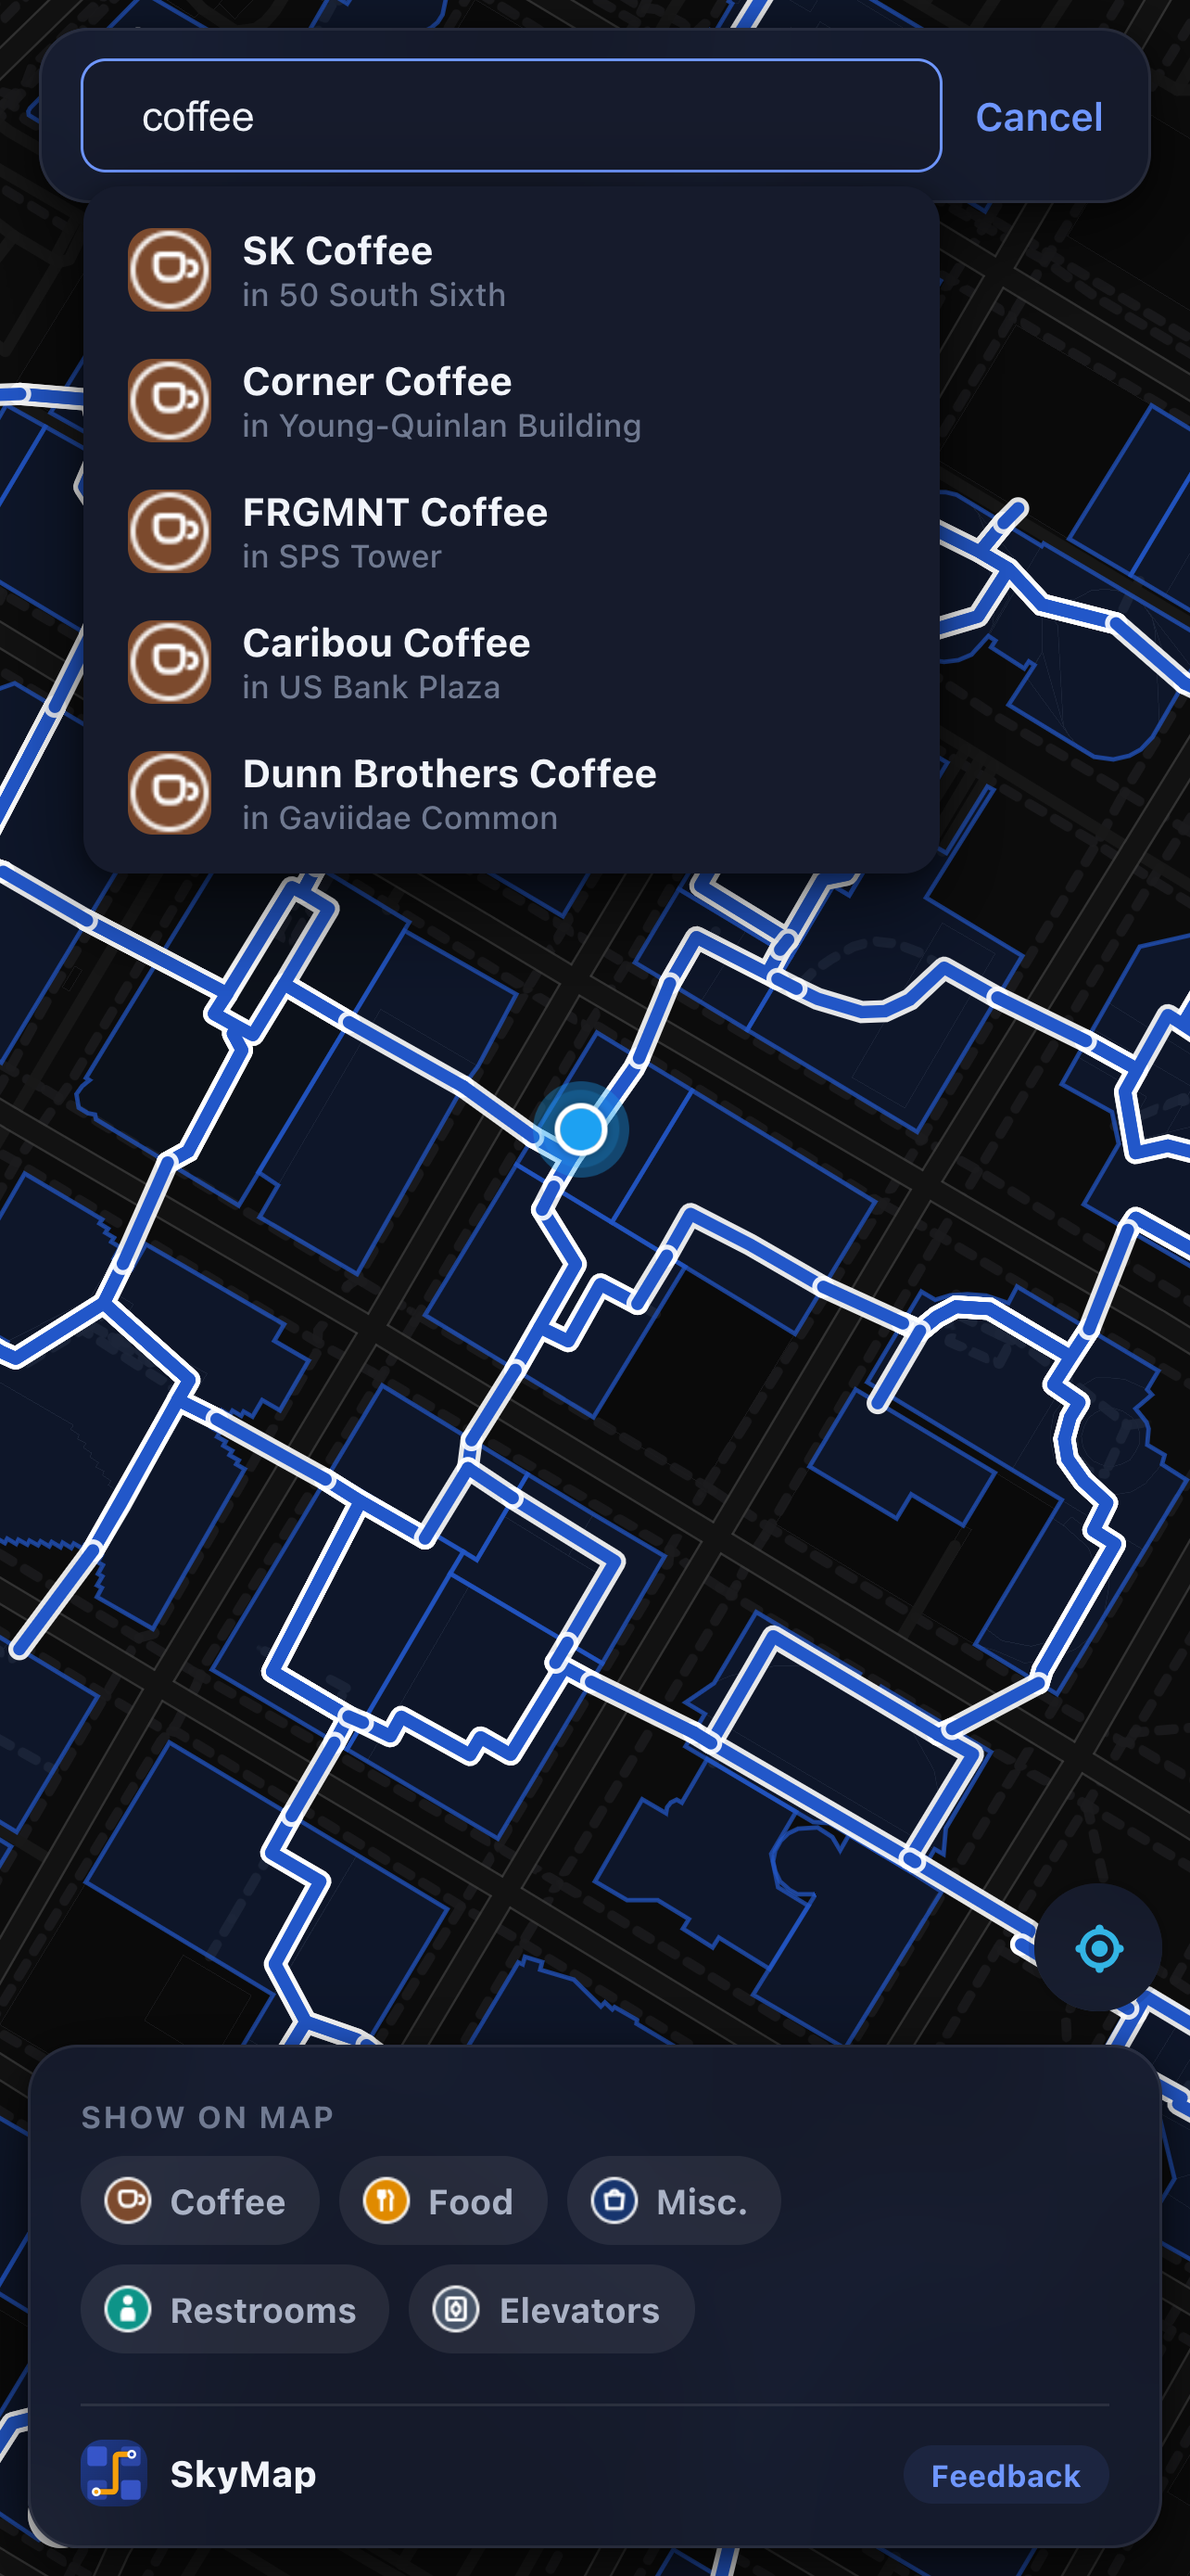
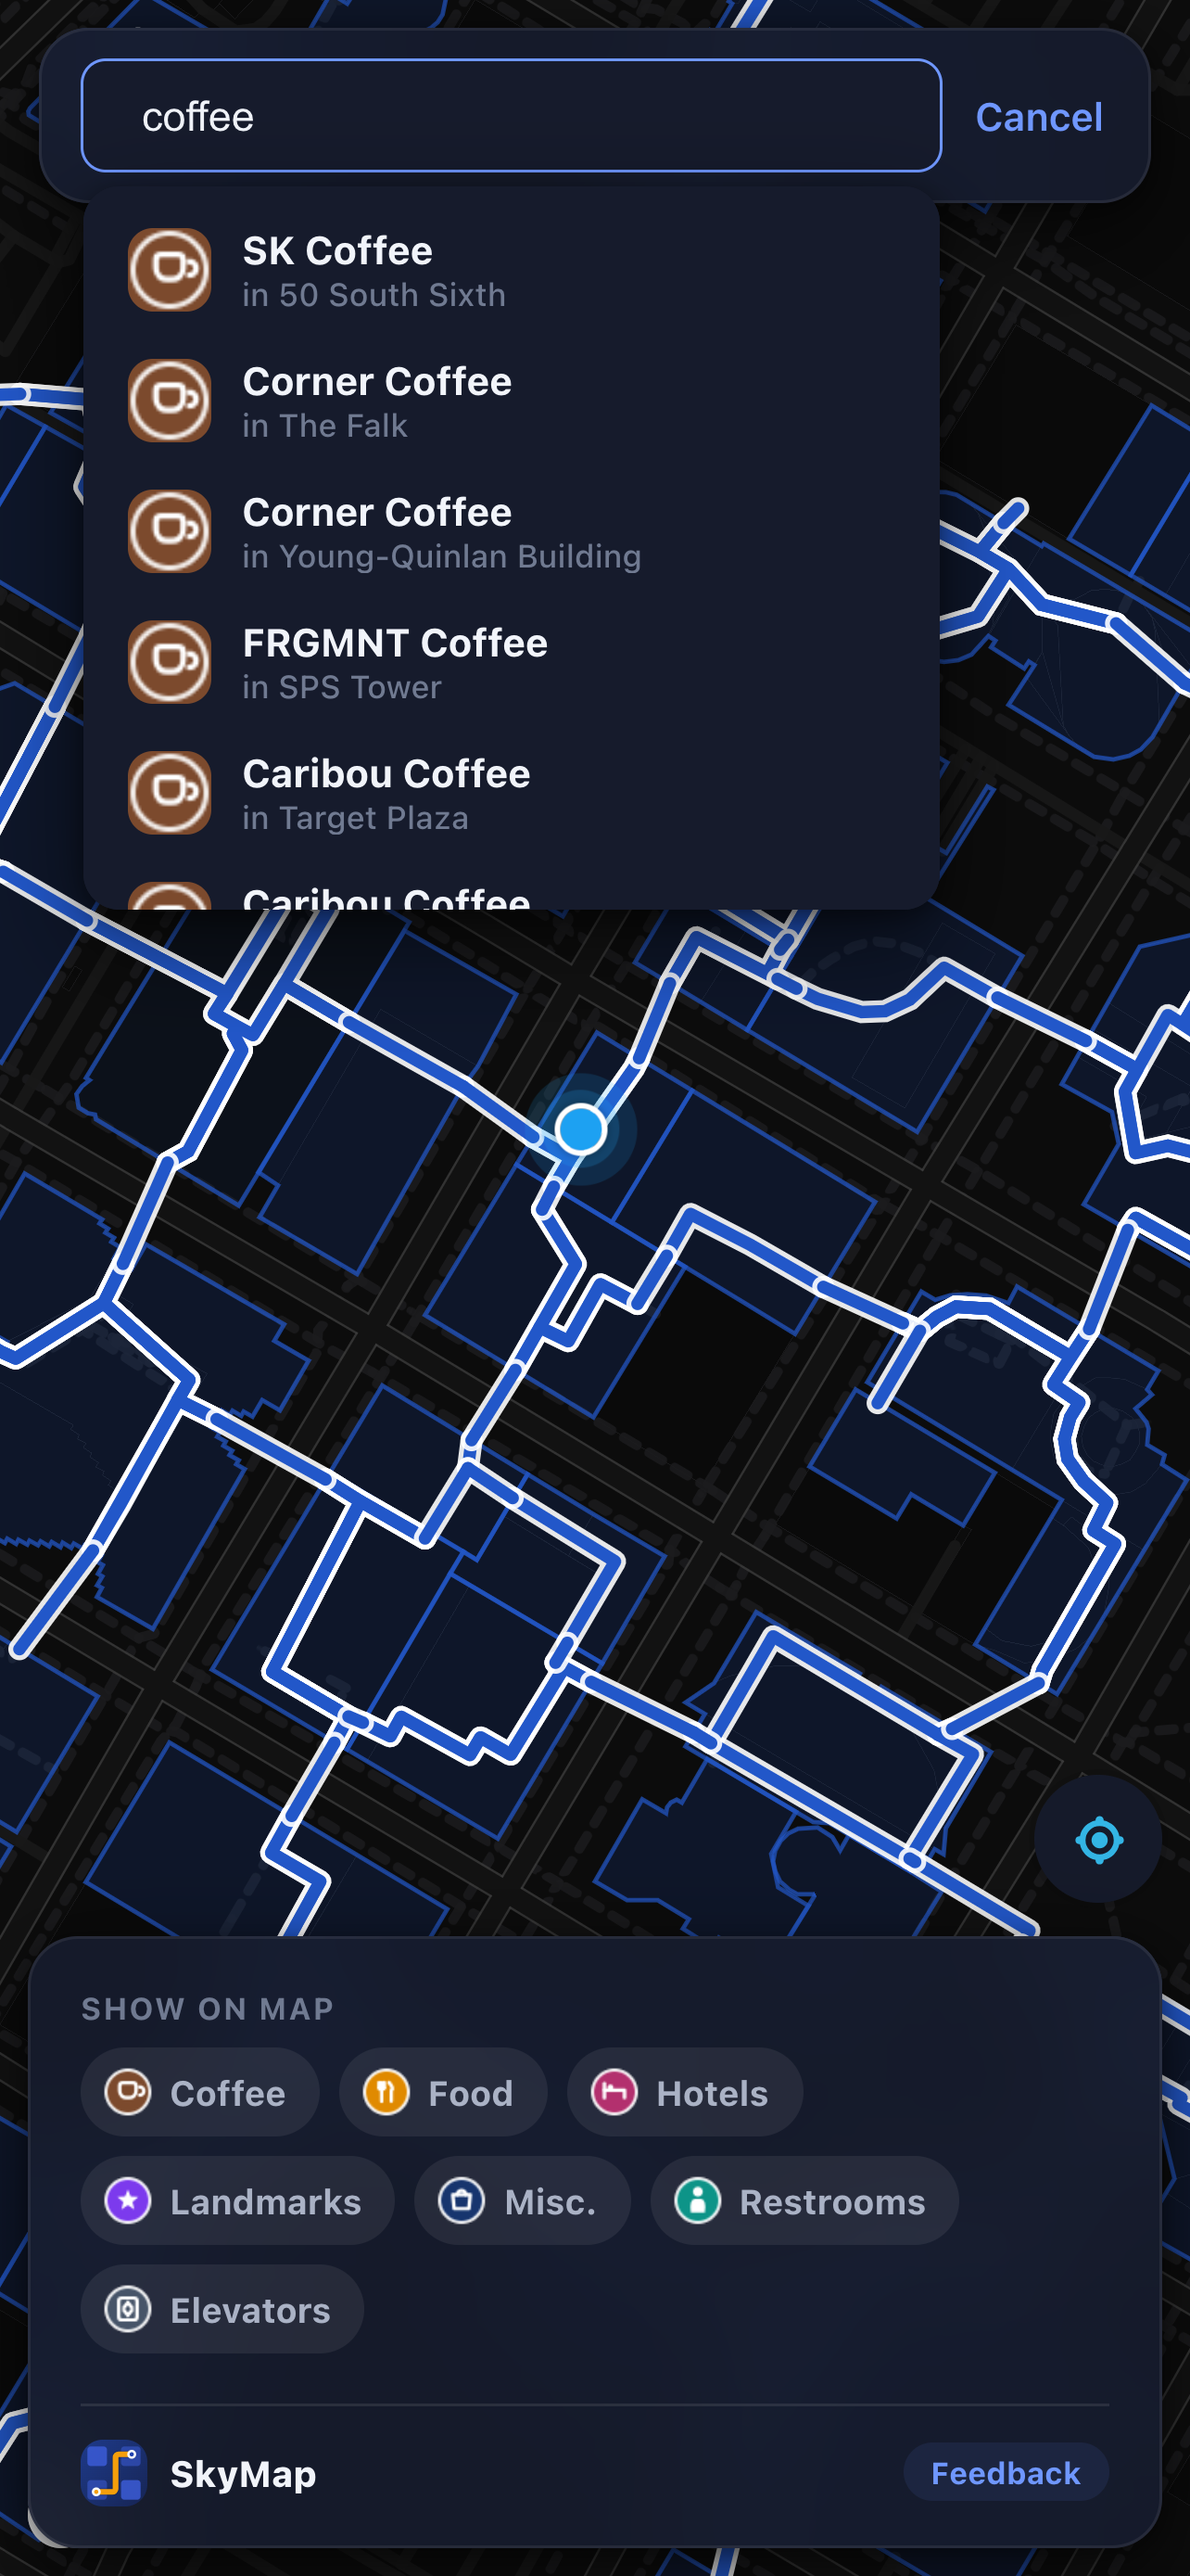
Bake the feedback endpoint into the iOS build; refresh screenshots
Xcode Cloud ran a bare npm run build, so VITE_FEEDBACK_ENDPOINT was never
set and the native app fell back to mailto: — the feedback form would have
been untestable on TestFlight, which is the whole point of the build. Set
in ci_post_clone.sh rather than the Xcode Cloud UI so the value lives in
the repo and survives a workflow rebuild. Verified the URL lands in the
bundle.

Screenshots recaptured: the chip row now carries Hotels and Landmarks, so
yesterday's set was stale again. 1.1 is being pulled back from review to
carry them, so this time they ship with the release.

Release notes rewritten to lead with the places — that's what a reader
notices, and it's what the first user actually wrote in about.

diff --git a/appstore-assets/RELEASING.md b/appstore-assets/RELEASING.md
@@ -59,10 +59,11 @@ For Review". Upload them *before* submitting, or they wait for the next
 version. Editing a live version's screenshots also requires a new version,
 so there's no back door once it's shipped.
 
-The set committed on 2026-07-30 was captured against 1.1's UI but **is not
-on the 1.1 listing** — 1.1 was already in review and Joey chose to ship
-rather than reset the queue a third time. Upload them as the first step of
-the next version.
+The set was recaptured on 2026-07-31 against the post-feedback UI (the
+chip row now carries Hotels and Landmarks, so the 07-30 set was stale
+again). 1.1 was pulled back from review to carry them, so this time the
+screenshots do ship with the release — upload them *while the version is
+back in Prepare for Submission*, before re-submitting.
 
 ## Metadata gotchas found the hard way (2026-07-29)
 
@@ -82,10 +83,22 @@ the next version.
 
 ## What's New — 1.1
 
-```
-Better walking times, a cleaner map, and place cards that tell you what
-you actually want to know.
+Rewritten 2026-07-31: 1.1 was pulled back from review to fold in the first
+round of user feedback (missing places, the position dot, the feedback
+button). Lead with what a reader will notice — the places — rather than
+with the older internal fixes.
 
+```
+Far more places, a position that stays on the skyway, and feedback you can
+send without leaving the app.
+
+• Search now finds hundreds more places — hotels, the downtown Target,
+  shops, clinics, offices, even the skyway shoe repair. Somewhere just off
+  the network says so, and tells you which building to walk out of.
+• New Hotels and Landmarks filters on the map.
+• Your location now follows the skyway you're walking, instead of drifting
+  into the street below.
+• The Feedback button opens a form right in the app — no mail app needed.
 • Tap a restaurant or shop and you'll now see how far it is, how long it
   takes to walk there, what floor it's on, and when the skyway itself is
   open — plus its logo and a link to its menu.
@@ -100,6 +113,4 @@ you actually want to know.
 • Picking a destination in the building you're already standing in tells you
   you're there, instead of failing to search.
 • Route start and end points now land on the actual skyway door.
-• Simplified the filters: "Food" now covers restaurants and convenience
-  stores, and shops and services are combined under "Misc."
 ```
